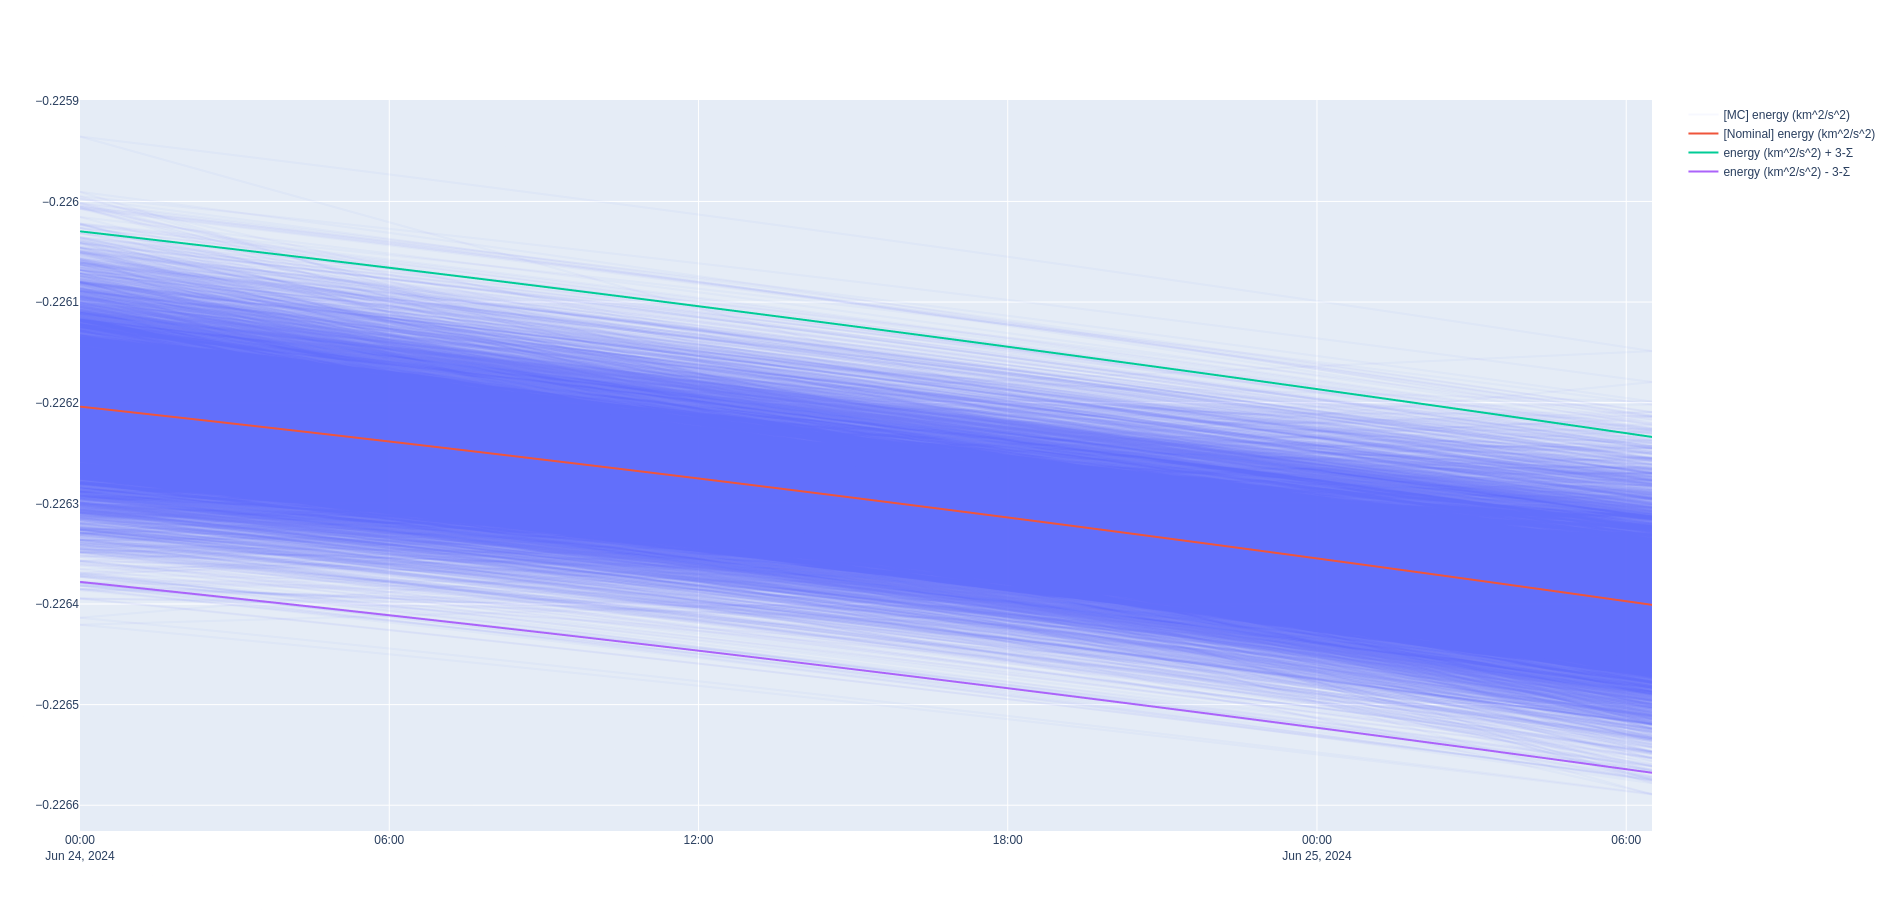
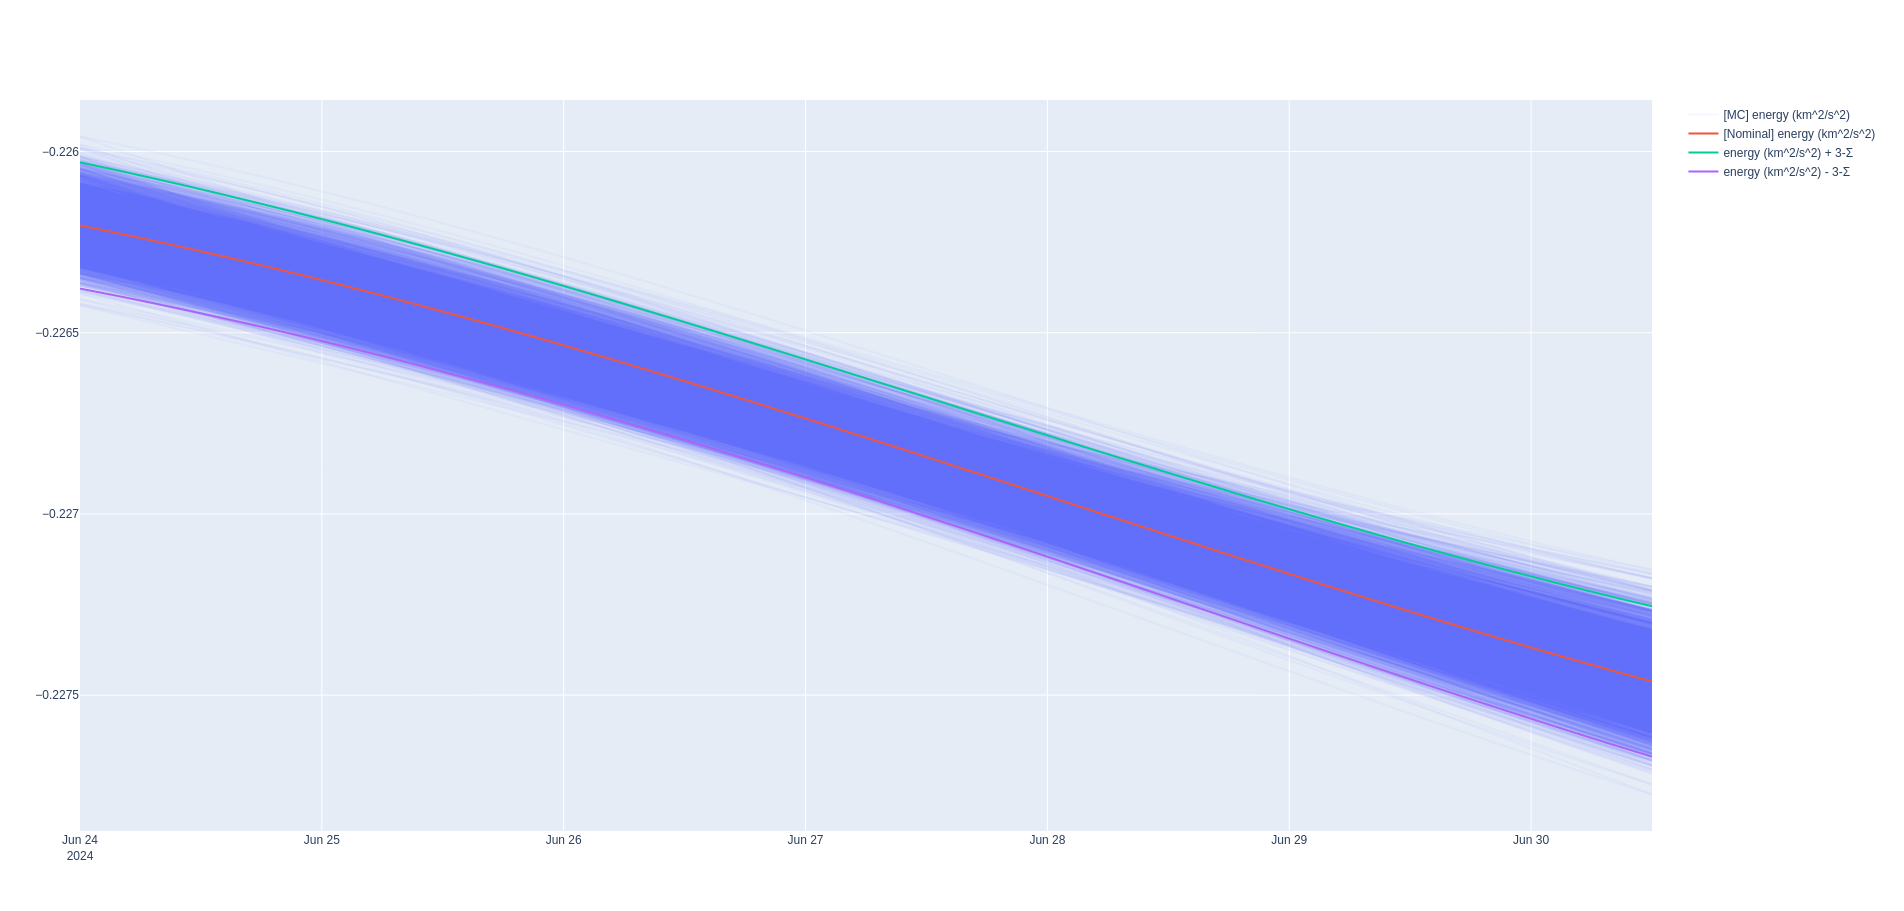
JWST now runs for 6.5 days to show dynamics

diff --git a/examples/02_jwst_covar_monte_carlo/main.rs b/examples/02_jwst_covar_monte_carlo/main.rs
@@ -106,7 +106,7 @@ fn main() -> Result<(), Box<dyn Error>> {
     let setup = Propagator::default(dynamics);
 
     // All of the analysis will use this duration.
-    let prediction_duration = 30.5 * Unit::Hour;
+    let prediction_duration = 6.5 * Unit::Day;
 
     // === Covariance mapping ===
     // For the covariance mapping / prediction, we'll use the common orbit determination approach.

diff --git a/examples/02_jwst_covar_monte_carlo/README.md b/examples/02_jwst_covar_monte_carlo/README.md
@@ -23,11 +23,12 @@ Finally, we'll check that the 3-sigma (i.e. 99.7%) covariance bounds of the cova
 
 ## Example run
 
-Nyx is **_blazing fast_**. The covariance mapping and the Monte Carlo runs of 5000 runs is executed in less than 30 seconds. Then it takes about 25 seconds to export all of the trajectory data into a ~61 MB parquet file.
+Nyx is **_blazing fast_**. The covariance mapping and the Monte Carlo runs of 5000 runs is executed in less than one minute. Then it takes about 41 seconds to export all of the trajectory data into a ~246 MB parquet file.
 
 ```sh
-Finished `release` profile [optimized] target(s) in 9.53s
- Running `target/release/examples/02_jwst`
+Compiling nyx-space v2.0.0-rc (/home/crabotin/Workspace/nyx-space/nyx)
+ Finished `release` profile [optimized] target(s) in 3.52s
+  Running `target/release/examples/02_jwst`
 INFO  anise::almanac::metaload::metafile > Saved https://naif.jpl.nasa.gov/pub/naif/JWST/kernels/spk/jwst_rec.bsp to /home/crabotin/.local/share/nyx-space/anise/jwst_rec.bsp (CRC32 = a8460057)
 INFO  anise::almanac::metaload::metafile > Using cached /home/crabotin/.local/share/nyx-space/anise/de440s.bsp
 INFO  anise::almanac::metaload::metafile > Using cached /home/crabotin/.local/share/nyx-space/anise/pck11.pca
@@ -35,7 +36,7 @@ INFO  anise::almanac::metaload::metafile > Discarding cached /home/crabotin/.loc
 INFO  anise::almanac::metaload::metafile > Saved http://public-data.nyxspace.com/anise/v0.4/moon_fk.epa to /home/crabotin/.local/share/nyx-space/anise/moon_fk.epa (CRC32 = b93ba21)
 INFO  anise::almanac::metaload::metafile > Discarding cached /home/crabotin/.local/share/nyx-space/anise/moon_pa_de440_200625.bpc - CRC32 differ (got 3454388861, config expected 1817759242)
 INFO  anise::almanac::metaload::metafile > Saved http://public-data.nyxspace.com/anise/moon_pa_de440_200625.bpc to /home/crabotin/.local/share/nyx-space/anise/moon_pa_de440_200625.bpc (CRC32 = cde5ca7d)
-INFO  anise::almanac::metaload::metafile > Saved https://naif.jpl.nasa.gov/pub/naif/generic_kernels/pck/earth_latest_high_prec.bpc to /home/crabotin/.local/share/nyx-space/anise/earth_latest_high_prec.bpc (CRC32 = 1fbb5b72)
+INFO  anise::almanac::metaload::metafile > Saved https://naif.jpl.nasa.gov/pub/naif/generic_kernels/pck/earth_latest_high_prec.bpc to /home/crabotin/.local/share/nyx-space/anise/earth_latest_high_prec.bpc (CRC32 = a74b6afd)
 INFO  anise::almanac                     > Loading almanac from /home/crabotin/.local/share/nyx-space/anise/de440s.bsp
 INFO  anise::almanac                     > Loading as DAF/SPK
 INFO  anise::almanac                     > Loading almanac from /home/crabotin/.local/share/nyx-space/anise/pck11.pca
@@ -53,34 +54,34 @@ RIC  Σ_x = 0.5 km  Σ_y = 0.3 km  Σ_z = 1.5 km
 RIC  Σ_vx = 0.0001 km/s  Σ_vy = 0.0006 km/s  Σ_vz = 0.003 km/s
 Σ_cr = 0  Σ_cd = 0  Σ_mass = 0 kg
 
-INFO  nyx_space::od::process             > Mapping covariance for 1 day 6 h 30 min with 1 min step
+INFO  nyx_space::od::process             > Mapping covariance for 6 days 12 h with 1 min step
 INFO  nyx_space::od::process::export     > Exporting orbit determination result to parquet file...
-INFO  nyx_space::od::process::export     > Serialized 1830 estimates and residuals
-INFO  nyx_space::od::process::export     > Orbit determination results written to ./02_jwst_covar_map.parquet in 259 ms 743 μs 488 ns
-INFO  nyx_space::mc::montecarlo          > Propagated 5000 states in 12 s 475 ms 70 μs 85 ns
+INFO  nyx_space::od::process::export     > Serialized 9360 estimates and residuals
+INFO  nyx_space::od::process::export     > Orbit determination results written to ./02_jwst_covar_map.parquet in 734 ms 125 μs 312 ns
+INFO  nyx_space::mc::montecarlo          > Propagated 5000 states in 58 s 792 ms 823 μs 694 ns
 INFO  nyx_space::mc::results             > Exporting Monte Carlo results to parquet file...
-INFO  nyx_space::mc::results             > Serialized 229888 states from 2024-06-24T00:01:09.184303103 ET to 2024-06-25T06:31:09.184303103 ET
+INFO  nyx_space::mc::results             > Serialized 1065006 states from 2024-06-24T00:01:09.184303103 ET to 2024-06-30T12:01:09.184303103 ET
 INFO  nyx_space::mc::results             > Evaluating 2 event(s)
-INFO  nyx_space::mc::results             > Trajectory written to 02_jwst_monte_carlo.parquet in 23 s 190 ms 416 μs 896 ns
+INFO  nyx_space::mc::results             > Trajectory written to 02_jwst_monte_carlo.parquet in 41 s 603 ms 696 μs 128 ns
 ```
 
 ## Analysis
 
+Overall, we can confirm that the 3-sigma covariance is a good approximation of the uncertainty. Notably, however, there are some dispersed trajectories whose Keplerian orbital elements are outside of the 3-sigma bound. This is probably due to the fact that Keplerian orbital elements are defined for orbits where there is a central body, but the James Webb Space Telescope is in a three body orbit, since it's near a Lagrange point.
+
 ### State uncertainties
 
 As expected from any orbit determination software, Nyx can output uncertainties in the state vector in the integration frame and in the RIC frame. **Note:** these plots look pretty linear, but that's because we're running a pure prediction filter and JWST is in a stable halo orbit.
+
+![JWST RIC position (km)](./plots/jwst_ric_position.png)
+
+![JWST RIC velocity (km/s)](./plots/jwst_ric_velocity.png)
 
 ![JWST MC X (km)](./plots/jwst_mc_X_km.png)
 
 ![JWST MC Y (km)](./plots/jwst_mc_Y_km.png)
 
 ![JWST MC Z (km)](./plots/jwst_mc_Z_km.png)
-
-![JWST MC VX (km/s)](./plots/jwst_mc_VX_km_s.png)
-
-![JWST MC VY (km/s)](./plots/jwst_mc_VY_km_s.png)
-
-![JWST MC VZ (km/s)](./plots/jwst_mc_VZ_km_s.png)
 
 ### Keplerian uncertainties
 
